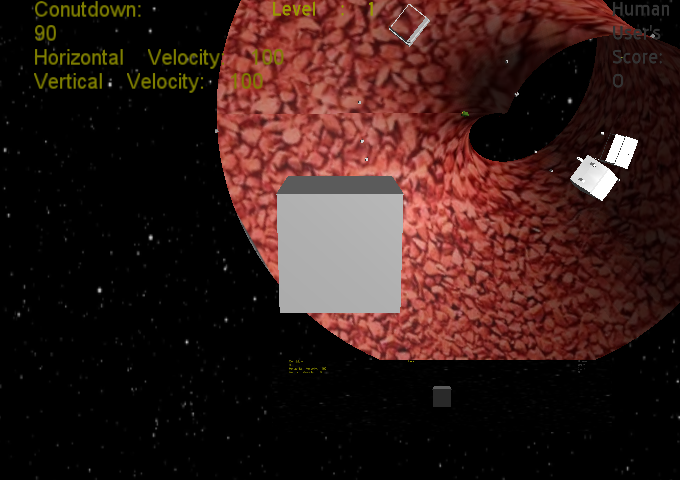
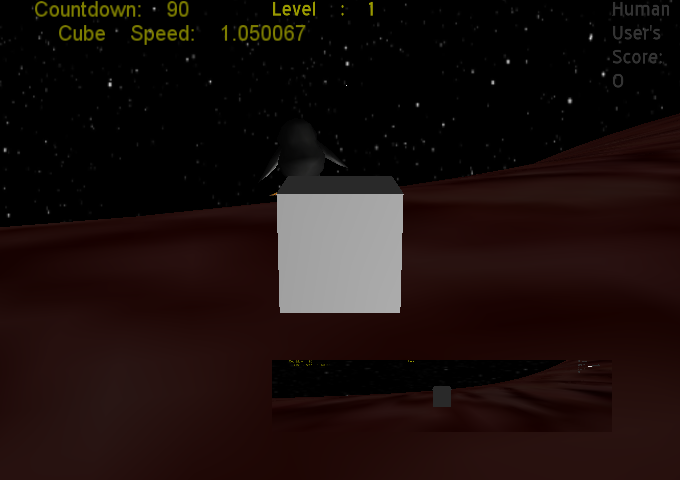
added speed coefficients of other 2 ai's method of speeding up still laggy but semi functional

diff --git a/OgrePong/World.cpp b/OgrePong/World.cpp
@@ -174,6 +174,10 @@ World::World(Ogre::SceneManager *sceneManager, InputHandler *input, Tank *tank) 
 	AI_2_u = 0.0f;
 	AI_2_v = 0.0f;
     SPEED_COEFFICIENT = 10.0;
+    SPEED_COEFFICIENT_AI_0 = 10.0;
+    SPEED_COEFFICIENT_AI_1 = 10.0;
+    SPEED_COEFFICIENT_AI_2 = 10.0;
+
 	 
 	
 	
@@ -255,18 +259,20 @@ void World::Think(const Ogre::Real& mTime)
 	Ogre::Vector3 N;
     float ftime =Ogre::ControllerManager::getSingleton().getElapsedTime();
     u=ftime;
-	U_u=-ftime/10;// ORIGINALLY -ftime/10
+	U_u=-ftime/SPEED_COEFFICIENT;// ORIGINALLY -ftime/10
 	//AI_0_u=-ftime/10;// ORIGINALLY -ftime/10
 	//AI_1_u=-ftime/10;// ORIGINALLY -ftime/10
 
 	float u1 = u+U_u;
     float u2 = u+AI_0_u;
     float u3 = u+AI_1_u;
-    //For Debug use "AItank0"
-	mTank->SceneManager()->getSceneNode("AItank0")->setPosition(1000*cos(u1)+1000*cos(u1/2)*cos(u1)*(U_v),1000*sin(u1)+1000*cos(u1/2)*sin(u1)*(U_v),1000*sin(u1/2)*(U_v));
-	mTank->SceneManager()->getSceneNode("AItank0")->translate(Normal(u1, U_v)*10);
+    //For Debug use:
+    //"AItank0" will make User cube Designer
+
+	mTank->SceneManager()->getSceneNode("U")->setPosition(1000*cos(u1)+1000*cos(u1/2)*cos(u1)*(U_v),1000*sin(u1)+1000*cos(u1/2)*sin(u1)*(U_v),1000*sin(u1/2)*(U_v));
+	mTank->SceneManager()->getSceneNode("U")->translate(Normal(u1, U_v)*10);
 	//mTank->SceneManager()->getSceneNode("U")->translate(Binormal(u1, U_v)*U_v);
-	mTank->SceneManager()->getSceneNode("AItank0")->setOrientation(Orientation(Binormal(u1, U_v),Normal(u1, U_v),Tangent(u1,U_v)));
+	mTank->SceneManager()->getSceneNode("U")->setOrientation(Orientation(Binormal(u1, U_v),Normal(u1, U_v),Tangent(u1,U_v)));
 	u+=5;
 	mTank->SceneManager()->getSceneNode("AItank1")->setPosition(1000*cos(u2)+1000*cos(u2/2)*cos(u2)*(AI_0_v),1000*sin(u2)+1000*cos(u2/2)*sin(u2)*(AI_0_v),1000*sin(u2/2)*(AI_0_v));
 	mTank->SceneManager()->getSceneNode("AItank1")->translate(Normal(u2, AI_0_v)*11);
@@ -385,7 +391,7 @@ void World::Think(const Ogre::Real& mTime)
 		}
 		setIterator();
 	}
-    //LEFT AND RIGHT MOVE DESIGNER MODE CUBE
+    //LEFT,RIGHT,UP,DOWN MOVE DESIGNER MODE CUBE
 	if (mInputHandler->IsKeyDown(OIS::KC_LEFT) || mInputHandler->IsKeyDown(OIS::KC_RIGHT))
 		yawTank(mInputHandler, mTime);
     else if (mInputHandler->IsKeyDown(OIS::KC_UP))
@@ -448,18 +454,86 @@ void World::Think(const Ogre::Real& mTime)
 		else if (mInputHandler->IsKeyDown(OIS::KC_I))
 	{
 			//U_u+=0.01f;
-        SPEED_COEFFICIENT += 0.1f;
+        if (SPEED_COEFFICIENT < 20) {
+            SPEED_COEFFICIENT += 0.5f;
+
+        }
 	}
 	else if (mInputHandler->IsKeyDown(OIS::KC_K))
 	{
 
 			//U_u-=0.01f;
-        if (SPEED_COEFFICIENT > 0) {
-            SPEED_COEFFICIENT -= 0.1f;
+        //if (SPEED_COEFFICIENT <= 1.0 && SPEED_COEFFICIENT > 0) {
+        //    SPEED_COEFFICIENT -= 0.1f;
+        //}
+        if (SPEED_COEFFICIENT > 1.0) {
+            SPEED_COEFFICIENT -= 0.5f;
         }
 
 	}
 
+
+        //T,G,F,H Move cube 2
+	else if (mInputHandler->IsKeyDown(OIS::KC_F))
+	{
+		if(AI_0_v<0.5){
+			AI_0_v+=0.01f;
+		}
+	}
+	else if (mInputHandler->IsKeyDown(OIS::KC_H))
+	{
+		if(AI_0_v>-0.5){
+			AI_0_v-=0.01f;
+		}
+	}
+		else if (mInputHandler->IsKeyDown(OIS::KC_T))
+	{
+			//U_u+=0.01f;
+        if (SPEED_COEFFICIENT_AI_0 < 20) {
+            SPEED_COEFFICIENT_AI_0 += 0.5f;
+
+        }
+	}
+	else if (mInputHandler->IsKeyDown(OIS::KC_G))
+	{
+
+			//U_u-=0.01f;
+        if (SPEED_COEFFICIENT_AI_1 > 1.0) {
+            SPEED_COEFFICIENT_AI_1 -= 0.5f;
+        }
+
+	}
+
+            //W,A,S,D Move cube 3
+	else if (mInputHandler->IsKeyDown(OIS::KC_A))
+	{
+		if(AI_1_v<0.5){
+			AI_1_v+=0.01f;
+		}
+	}
+	else if (mInputHandler->IsKeyDown(OIS::KC_D))
+	{
+		if(AI_1_v>-0.5){
+			AI_1_v-=0.01f;
+		}
+	}
+		else if (mInputHandler->IsKeyDown(OIS::KC_W))
+	{
+			//U_u+=0.01f;
+        if (SPEED_COEFFICIENT_AI_1 < 20) {
+            SPEED_COEFFICIENT_AI_1 += 0.5f;
+
+        }
+	}
+	else if (mInputHandler->IsKeyDown(OIS::KC_S))
+	{
+
+			//U_u-=0.01f;
+        if (SPEED_COEFFICIENT_AI_1 > 1.0) {
+            SPEED_COEFFICIENT_AI_1 -= 0.5f;
+        }
+
+	}
 	
 
 }
